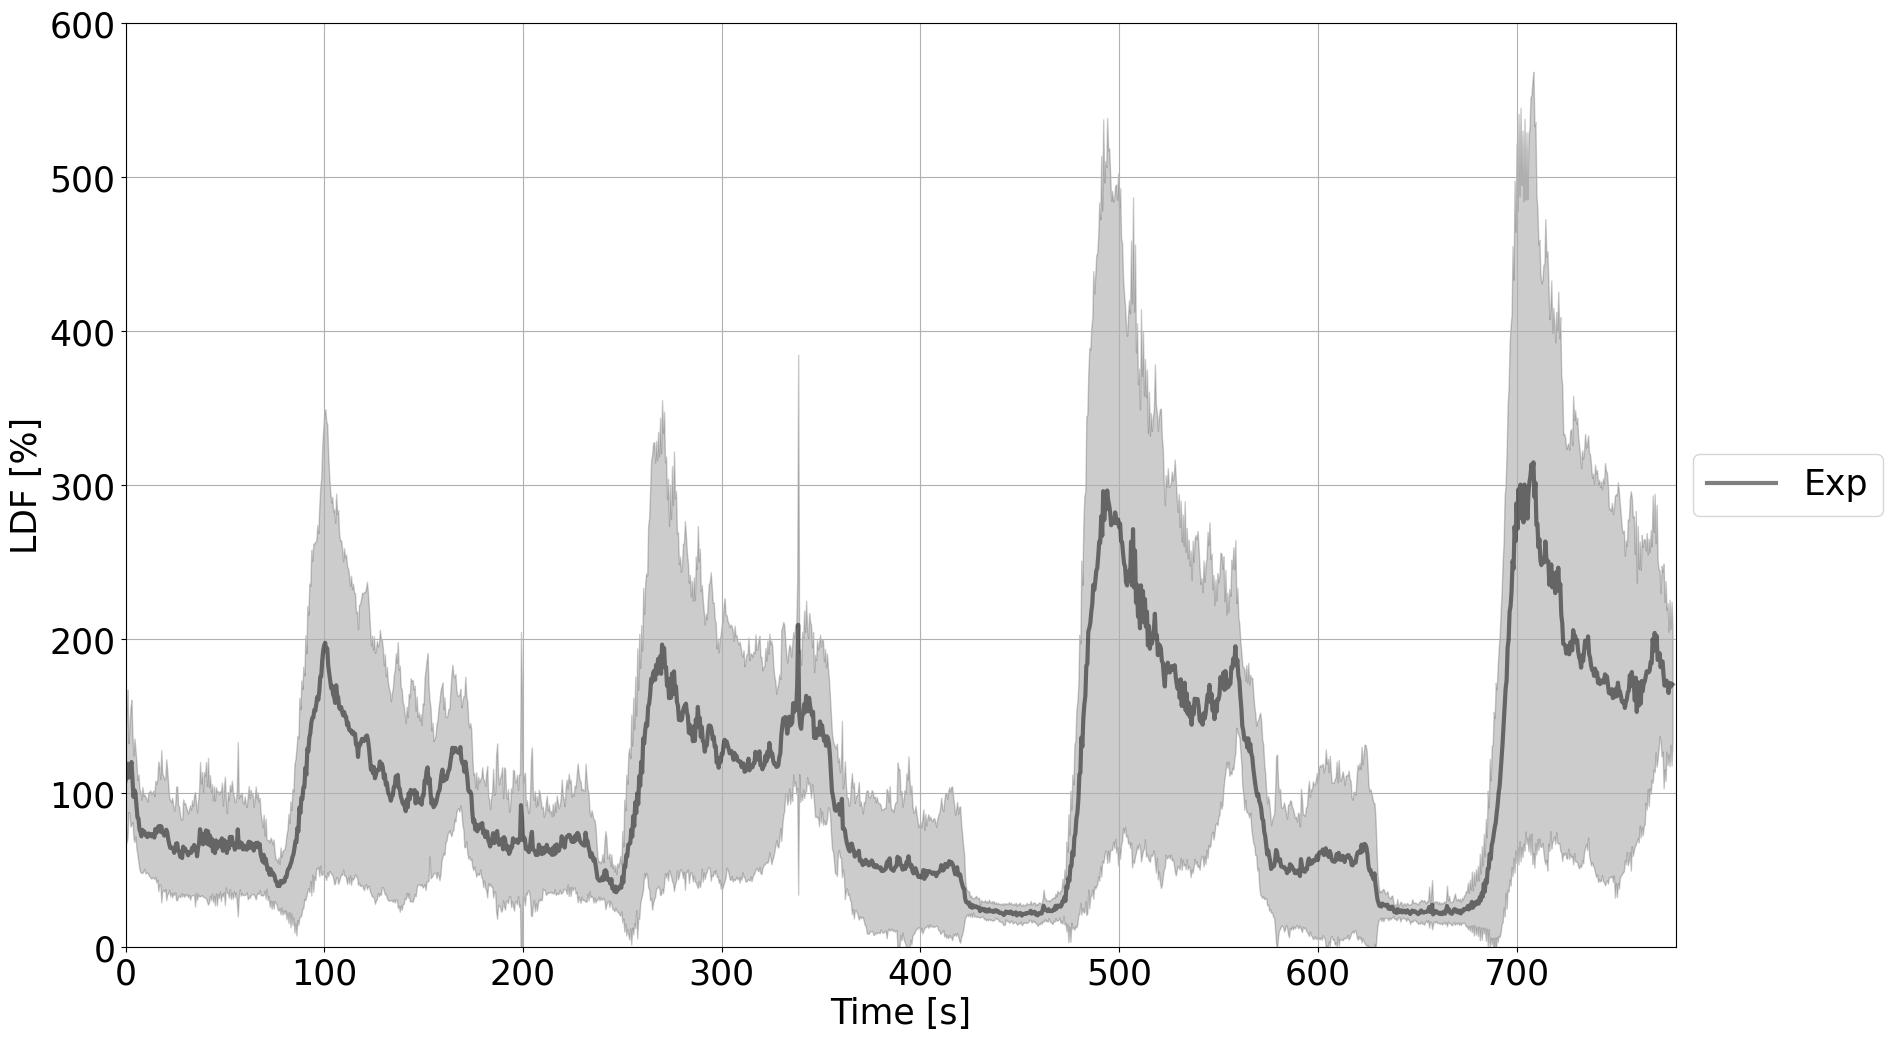
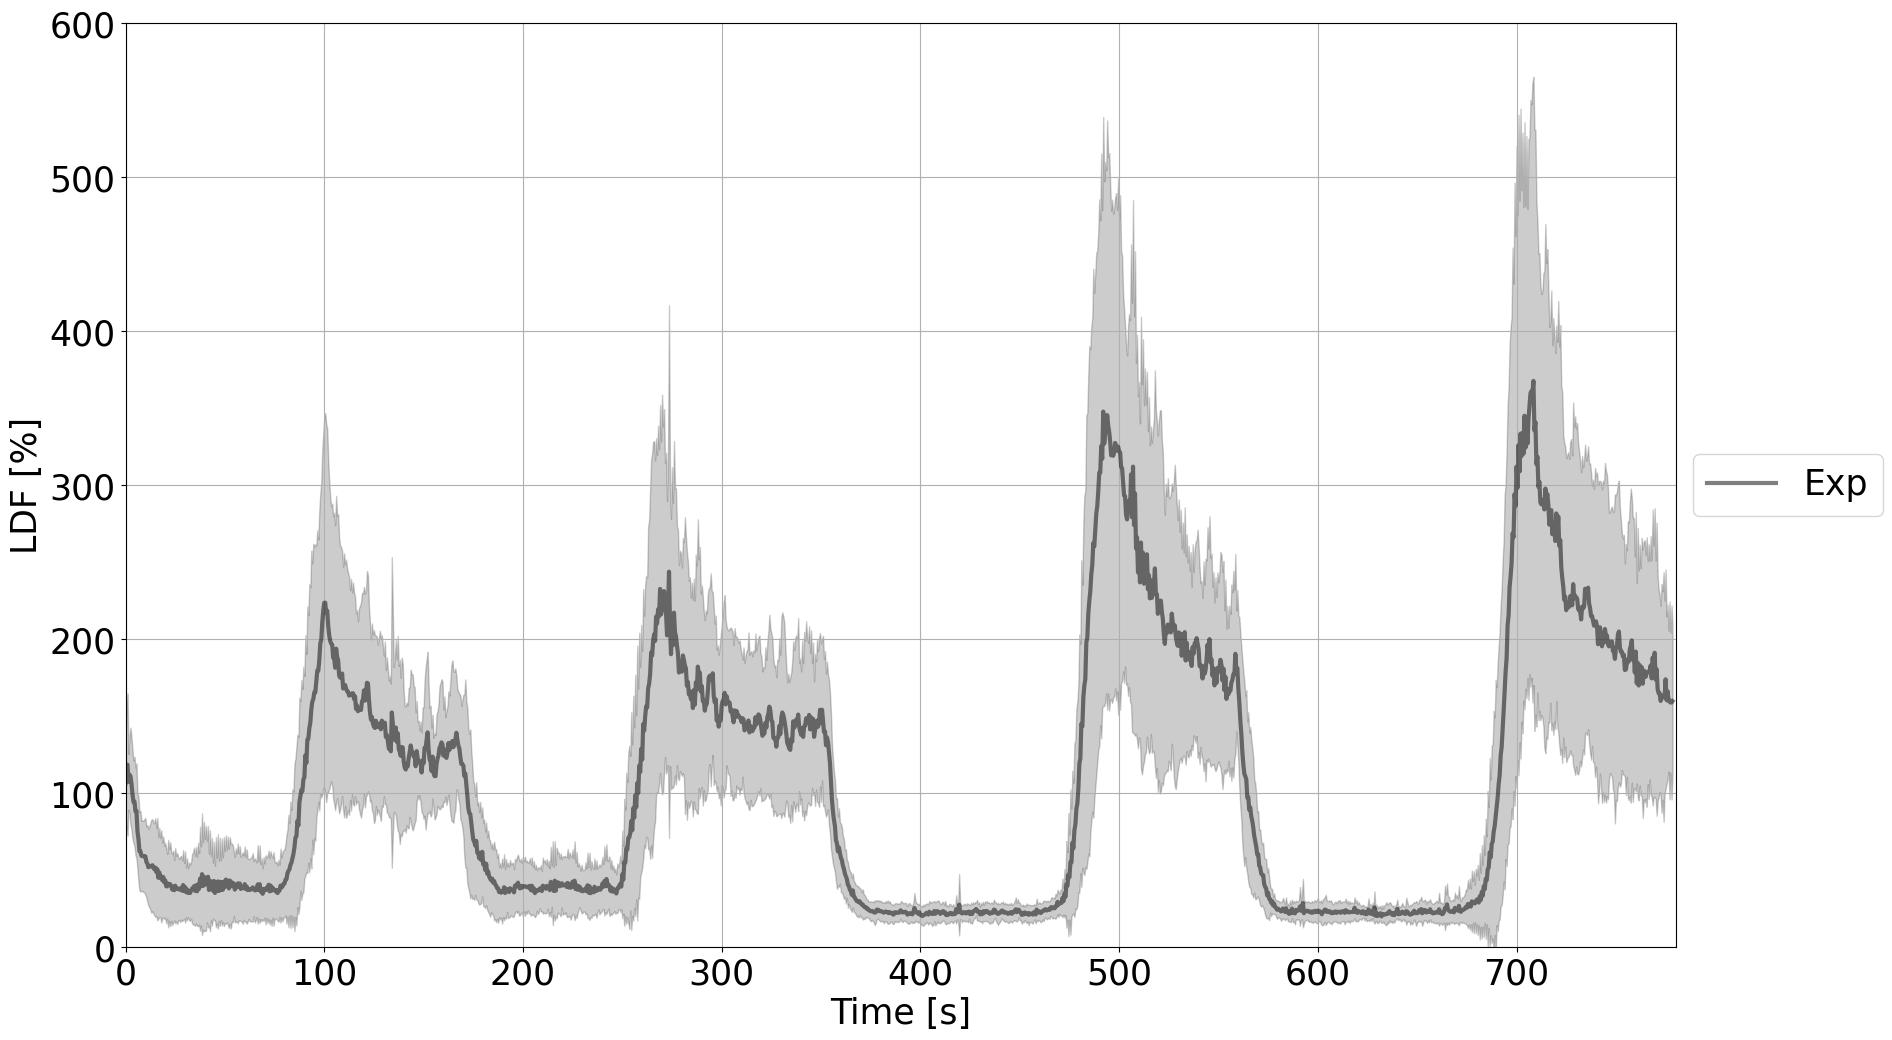
update

Changed region(s): [[0.0624, 0.4, 0.9043, 0.9231], [0.7796, 0.3692, 0.9043, 0.6769]]

diff --git a/Experimental_Data/LDF_post_treatment.py b/Experimental_Data/LDF_post_treatment.py
@@ -67,13 +67,33 @@ JOL_mms = []
 JOL_std_signal = []
 
 for i in range(length_list):
-	JOL_mean_signal.append(np.mean([JOL_PREVAIL_LBM_008["j1_1"]["PU_pc"][index_11+i],JOL_PREVAIL_LBM_008["j1_2"]["PU_pc"][index_12+i],JOL_PREVAIL_LBM_008["j2_1"]["PU_pc"][index_21+i],JOL_PREVAIL_LBM_008["j2_2"]["PU_pc"][index_22+i]]))
-	JOL_std_signal.append(np.std([JOL_PREVAIL_LBM_008["j1_1"]["PU_pc"][index_11+i],JOL_PREVAIL_LBM_008["j1_2"]["PU_pc"][index_12+i],JOL_PREVAIL_LBM_008["j2_1"]["PU_pc"][index_21+i],JOL_PREVAIL_LBM_008["j2_2"]["PU_pc"][index_22+i]]))
-	JOL_mms.append(np.mean([JOL_PREVAIL_LBM_008["j1_1"]["PU_pc"][index_11+i],JOL_PREVAIL_LBM_008["j1_2"]["PU_pc"][index_12+i],JOL_PREVAIL_LBM_008["j2_1"]["PU_pc"][index_21+i],JOL_PREVAIL_LBM_008["j2_2"]["PU_pc"][index_22+i]])-np.std([JOL_PREVAIL_LBM_008["j1_1"]["PU_pc"][index_11+i],JOL_PREVAIL_LBM_008["j1_2"]["PU_pc"][index_12+i],JOL_PREVAIL_LBM_008["j2_1"]["PU_pc"][index_21+i],JOL_PREVAIL_LBM_008["j2_2"]["PU_pc"][index_22+i]]))
+	JOL_mean_signal.append( np.mean( [ JOL_PREVAIL_LBM_008["j1_1"]["PU_pc"][index_11+i],
+									   JOL_PREVAIL_LBM_008["j1_2"]["PU_pc"][index_12+i],
+									   JOL_PREVAIL_LBM_008["j2_1"]["PU_pc"][index_21+i],
+									   JOL_PREVAIL_LBM_008["j2_2"]["PU_pc"][index_22+i] ] ) )
+	# 
+	JOL_std_signal.append( np.std( [ JOL_PREVAIL_LBM_008["j1_1"]["PU_pc"][index_11+i],
+									 JOL_PREVAIL_LBM_008["j1_2"]["PU_pc"][index_12+i],
+									 JOL_PREVAIL_LBM_008["j2_1"]["PU_pc"][index_21+i],
+									 JOL_PREVAIL_LBM_008["j2_2"]["PU_pc"][index_22+i] ] ) )
+	# 
+	JOL_mms.append( np.mean( [ JOL_PREVAIL_LBM_008["j1_1"]["PU_pc"][index_11+i],
+							   JOL_PREVAIL_LBM_008["j1_2"]["PU_pc"][index_12+i],
+							   JOL_PREVAIL_LBM_008["j2_1"]["PU_pc"][index_21+i],
+							   JOL_PREVAIL_LBM_008["j2_2"]["PU_pc"][index_22+i] ] ) 
+					- np.std( [ JOL_PREVAIL_LBM_008["j1_1"]["PU_pc"][index_11+i],
+								JOL_PREVAIL_LBM_008["j1_2"]["PU_pc"][index_12+i],
+								JOL_PREVAIL_LBM_008["j2_1"]["PU_pc"][index_21+i],
+								JOL_PREVAIL_LBM_008["j2_2"]["PU_pc"][index_22+i] ] ) )
+	# 
 	JOL_mps.append(np.mean([JOL_PREVAIL_LBM_008["j1_1"]["PU_pc"][index_11+i],JOL_PREVAIL_LBM_008["j1_2"]["PU_pc"][index_12+i],JOL_PREVAIL_LBM_008["j2_1"]["PU_pc"][index_21+i],JOL_PREVAIL_LBM_008["j2_2"]["PU_pc"][index_22+i]])+np.std([JOL_PREVAIL_LBM_008["j1_1"]["PU_pc"][index_11+i],JOL_PREVAIL_LBM_008["j1_2"]["PU_pc"][index_12+i],JOL_PREVAIL_LBM_008["j2_1"]["PU_pc"][index_21+i],JOL_PREVAIL_LBM_008["j2_2"]["PU_pc"][index_22+i]]))
+	# 
 	JOL_Temperaturemean_signal.append(np.mean([JOL_PREVAIL_LBM_008["j1_1"]["Temperature"][index_11+i],JOL_PREVAIL_LBM_008["j1_2"]["Temperature"][index_12+i],JOL_PREVAIL_LBM_008["j2_1"]["Temperature"][index_21+i],JOL_PREVAIL_LBM_008["j2_2"]["Temperature"][index_22+i]]))
+	# 
 	JOL_Temperaturestd_signal.append(np.std([JOL_PREVAIL_LBM_008["j1_1"]["Temperature"][index_11+i],JOL_PREVAIL_LBM_008["j1_2"]["Temperature"][index_12+i],JOL_PREVAIL_LBM_008["j2_1"]["Temperature"][index_21+i],JOL_PREVAIL_LBM_008["j2_2"]["Temperature"][index_22+i]]))
+	# 
 	JOL_Temperaturemms.append(np.mean([JOL_PREVAIL_LBM_008["j1_1"]["Temperature"][index_11+i],JOL_PREVAIL_LBM_008["j1_2"]["Temperature"][index_12+i],JOL_PREVAIL_LBM_008["j2_1"]["Temperature"][index_21+i],JOL_PREVAIL_LBM_008["j2_2"]["Temperature"][index_22+i]])-np.std([JOL_PREVAIL_LBM_008["j1_1"]["Temperature"][index_11+i],JOL_PREVAIL_LBM_008["j1_2"]["Temperature"][index_12+i],JOL_PREVAIL_LBM_008["j2_1"]["Temperature"][index_21+i],JOL_PREVAIL_LBM_008["j2_2"]["Temperature"][index_22+i]]))
+	# 
 	JOL_Temperaturemps.append(np.mean([JOL_PREVAIL_LBM_008["j1_1"]["Temperature"][index_11+i],JOL_PREVAIL_LBM_008["j1_2"]["Temperature"][index_12+i],JOL_PREVAIL_LBM_008["j2_1"]["Temperature"][index_21+i],JOL_PREVAIL_LBM_008["j2_2"]["Temperature"][index_22+i]])+np.std([JOL_PREVAIL_LBM_008["j1_1"]["Temperature"][index_11+i],JOL_PREVAIL_LBM_008["j1_2"]["Temperature"][index_12+i],JOL_PREVAIL_LBM_008["j2_1"]["Temperature"][index_21+i],JOL_PREVAIL_LBM_008["j2_2"]["Temperature"][index_22+i]]))
 
 # Filter parameters
@@ -318,8 +338,8 @@ all_means_pc=[]
 all_std_pc=[]
 # Percentage
 for i in range(min(length_list_ASE,length_list)):
-	all_means_pc.append(np.mean([ASE_PREVAIL_LBM_009["j1_1"]["PU_pc"][index_11_ASE+i],ASE_PREVAIL_LBM_009["j1_2"]["PU_pc"][index_12_ASE+i],ASE_PREVAIL_LBM_009["j2_1"]["PU_pc"][index_21_ASE+i],ASE_PREVAIL_LBM_009["j2_2"]["PU_pc"][index_22_ASE+i],JOL_PREVAIL_LBM_008["j1_1"]["PU_pc"][index_11+i],JOL_PREVAIL_LBM_008["j1_2"]["PU_pc"][index_12+i],JOL_PREVAIL_LBM_008["j2_1"]["PU_pc"][index_21+i],JOL_PREVAIL_LBM_008["j2_2"]["PU_pc"][index_22+i],MDI_PREVAIL_LBM_026["j1_1"]["PU_pc"][index_11_MDI+i-130],MDI_PREVAIL_LBM_026["j1_2"]["PU_pc"][index_12_MDI+i-130],MDI_PREVAIL_LBM_026["j2_1"]["PU_pc"][index_21_MDI+i-130],MDI_PREVAIL_LBM_026["j2_2"]["PU_pc"][index_22_MDI+i-130]                                  ]))
-	all_std_pc.append(np.std([ASE_PREVAIL_LBM_009["j1_1"]["PU_pc"][index_11_ASE+i],ASE_PREVAIL_LBM_009["j1_2"]["PU_pc"][index_12_ASE+i],ASE_PREVAIL_LBM_009["j2_1"]["PU_pc"][index_21_ASE+i],ASE_PREVAIL_LBM_009["j2_2"]["PU_pc"][index_22_ASE+i],JOL_PREVAIL_LBM_008["j1_1"]["PU_pc"][index_11+i],JOL_PREVAIL_LBM_008["j1_2"]["PU_pc"][index_12+i],JOL_PREVAIL_LBM_008["j2_1"]["PU_pc"][index_21+i],JOL_PREVAIL_LBM_008["j2_2"]["PU_pc"][index_22+i],MDI_PREVAIL_LBM_026["j1_1"]["PU_pc"][index_11_MDI+i-130],MDI_PREVAIL_LBM_026["j1_2"]["PU_pc"][index_12_MDI+i-130],MDI_PREVAIL_LBM_026["j2_1"]["PU_pc"][index_21_MDI+i-130],MDI_PREVAIL_LBM_026["j2_2"]["PU_pc"][index_22_MDI+i-130]                                     ]))
+	all_means_pc.append(np.mean([ASE_PREVAIL_LBM_009["j1_1"]["PU_pc"][index_11_ASE+i],ASE_PREVAIL_LBM_009["j1_2"]["PU_pc"][index_12_ASE+i],ASE_PREVAIL_LBM_009["j2_1"]["PU_pc"][index_21_ASE+i],ASE_PREVAIL_LBM_009["j2_2"]["PU_pc"][index_22_ASE+i],JOL_PREVAIL_LBM_008["j1_1"]["PU_pc"][index_11+i],JOL_PREVAIL_LBM_008["j1_2"]["PU_pc"][index_12+i],JOL_PREVAIL_LBM_008["j2_1"]["PU_pc"][index_21+i],JOL_PREVAIL_LBM_008["j2_2"]["PU_pc"][index_22+i],MDI_PREVAIL_LBM_026["j1_1"]["PU_pc"][index_11_MDI+i],MDI_PREVAIL_LBM_026["j1_2"]["PU_pc"][index_12_MDI+i],MDI_PREVAIL_LBM_026["j2_1"]["PU_pc"][index_21_MDI+i],MDI_PREVAIL_LBM_026["j2_2"]["PU_pc"][index_22_MDI+i]                                  ]))
+	all_std_pc.append(np.std([ASE_PREVAIL_LBM_009["j1_1"]["PU_pc"][index_11_ASE+i],ASE_PREVAIL_LBM_009["j1_2"]["PU_pc"][index_12_ASE+i],ASE_PREVAIL_LBM_009["j2_1"]["PU_pc"][index_21_ASE+i],ASE_PREVAIL_LBM_009["j2_2"]["PU_pc"][index_22_ASE+i],JOL_PREVAIL_LBM_008["j1_1"]["PU_pc"][index_11+i],JOL_PREVAIL_LBM_008["j1_2"]["PU_pc"][index_12+i],JOL_PREVAIL_LBM_008["j2_1"]["PU_pc"][index_21+i],JOL_PREVAIL_LBM_008["j2_2"]["PU_pc"][index_22+i],MDI_PREVAIL_LBM_026["j1_1"]["PU_pc"][index_11_MDI+i],MDI_PREVAIL_LBM_026["j1_2"]["PU_pc"][index_12_MDI+i],MDI_PREVAIL_LBM_026["j2_1"]["PU_pc"][index_21_MDI+i],MDI_PREVAIL_LBM_026["j2_2"]["PU_pc"][index_22_MDI+i]                                     ]))
 
 all_mms_pc = [all_means_pc[i]-all_std_pc[i] for i in range(len(all_means_pc))]
 all_mps_pc = [all_means_pc[i]+all_std_pc[i] for i in range(len(all_means_pc))]
